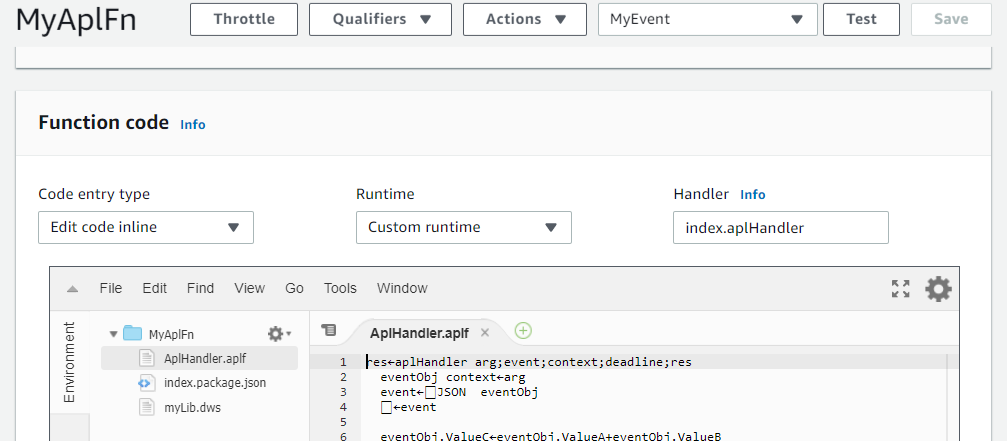
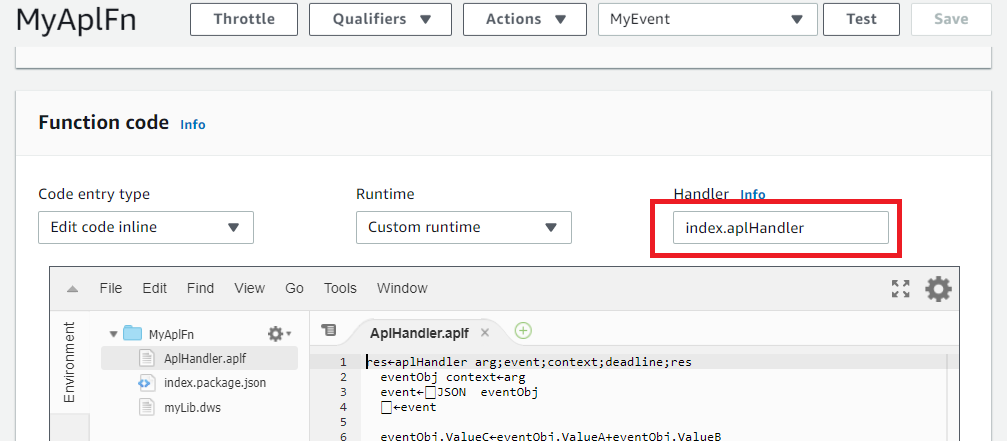
Note about handler.

Changed region(s): [[0.6465, 0.4422, 0.8928, 0.5896]]

diff --git a/README.md b/README.md
@@ -63,7 +63,7 @@ Create a new Lambda function and choose the custom runtime option.
 
 ![Create lambda](https://github.com/mvranic/apl-lambda/blob/master/img/create.png "Create lambda screenshot")
 
-Select your `index.zip` as the "Function code" and change the handler form "index.handler" to "index.aplHandler".
+**Do not forget:** Select your `index.zip` as the "Function code" and change the handler form "index.handler" to **"index.aplHandler"**.
 
 ![Function code](https://github.com/mvranic/apl-lambda/blob/master/img/function_code.png "Function code setup screenshot")
 
